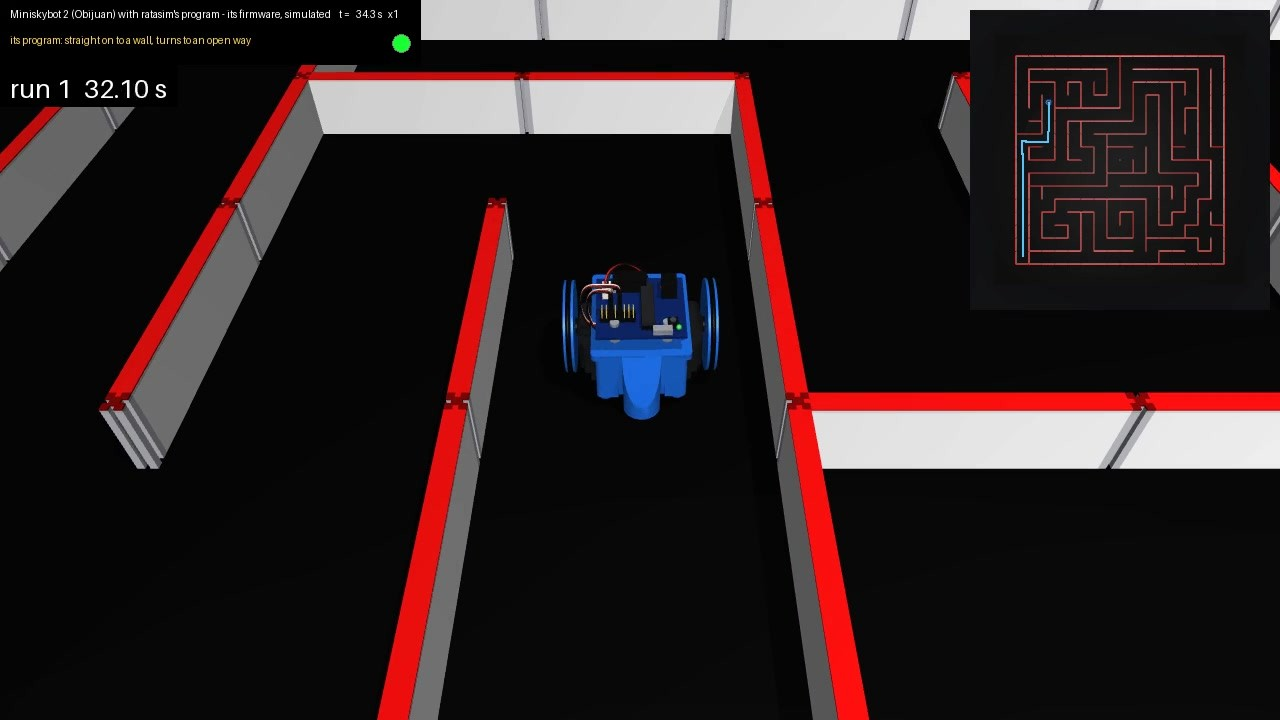
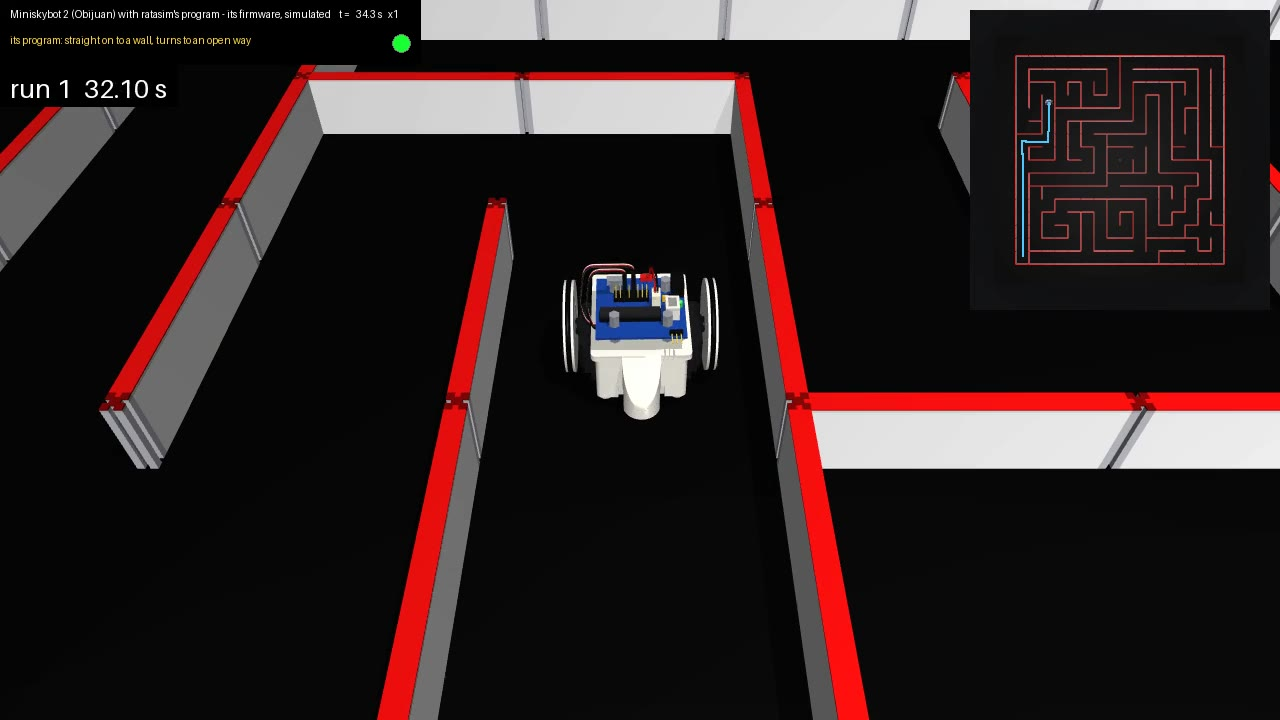
Miniskybot white, as in its photo: its printed parts (chassis, battery holder, wheels) in a printed plastic's warm, matt white (RGB 235, 232, 222), its Skymega in its real blue; its Skymega's parts where its photo has them (its ICSP's white boxed header with a right-angled header out of its back, it

Changed region(s): [[0.4375, 0.3667, 0.5625, 0.5806]]

diff --git a/ratasim/miniskybot/model.py b/ratasim/miniskybot/model.py
@@ -1,6 +1,6 @@
 """Miniskybot 2 assembled as its OpenSCAD model's show_robot() puts it together (parts/Openscad/main.scad), its meshes
 made by cad.py from the STL files its repository ships and from its OpenSCAD model's dimensions: its printed chassis,
-battery holder and wheels (blue PLA; white in its photo), its two Futaba S3003, its wheels' black O-rings and 4-arm
+battery holder and wheels (white, as in its photo), its two Futaba S3003, its wheels' black O-rings and 4-arm
 horns, its Skymega's hex spacers, its servos' cables and its battery's wires; drawn here, as its photo, its parts list
 and their data sheets show them: the Ø16 marble of its ball caster, its SRF02 ranger in the front's hole (its board
 behind the front's face, its transducer out of it) and its Skymega board over its top plate (its blue board, its
@@ -14,17 +14,20 @@ from ..model import MM, ROBOT_GROUP, WALL_GROUP, _f, maze_xml
 from . import cad
 from . import config as S
 
-# Its printed parts (chassis, battery holder, wheels) in blue PLA, RGB (25, 95, 200); the rest as in its photo
-PRINTED = (0.10, 0.37, 0.78, 1)
+# Its printed parts (chassis, battery holder, wheels) in white printed plastic, a little warm and matt, not pure
+# white: RGB (235, 232, 222); the rest as in its photo
+PRINTED = (0.92, 0.91, 0.87, 1)
 BLACK = (0.05, 0.05, 0.05, 1)
 SERVO = (0.09, 0.09, 0.10, 1)                   # the Futaba S3003's black case
 RUBBER = (0.03, 0.03, 0.03, 1)                  # its O-rings
-BLUE = (0.05, 0.13, 0.36, 1)                    # the Skymega's solder mask, darker than its printed parts
+BLUE = (0.09, 0.25, 0.60, 1)                    # the Skymega's blue solder mask
 STEEL = (0.55, 0.56, 0.59, 1)
 WIRE = {'black': (0.06, 0.06, 0.06, 1), 'red': (0.75, 0.08, 0.06, 1), 'white': (0.92, 0.92, 0.88, 1)}
 GREEN = (0.10, 0.42, 0.20, 1)
 GLASS = (0.78, 0.86, 0.92, 0.55)
-CREAM = (0.93, 0.91, 0.84, 1)
+CREAM = (0.93, 0.90, 0.80, 1)                   # its power connector
+WHITE = (0.90, 0.89, 0.86, 1)                   # its ICSP's boxed header
+GOLD = (0.85, 0.75, 0.30, 1)
 
 
 # ---- its parts drawn -----------------------------------------------------------------------------------------------
@@ -41,7 +44,7 @@ def _rod(p0, p1, r, rgba, cls='mvisual'):
 def _srf02():
     """Its SRF02 in the front's hole: its board (24 x 20 mm, as its data sheet gives it) right behind the front
     part's face, its transducer out of the hole to its front (17 mm over the board's back, as its data sheet gives
-    it), its two screws' heads on the face."""
+    it), its two screws' heads on the face, the metal clamp under one."""
     x, y, z = S.SRF02_POS
     face = S.scad_to_robot(S.BATTERY_C1 + S.FRONT_C1, 0, 0)[1]
     inner = face - S.FRONT_THICKNESS
@@ -49,25 +52,38 @@ def _srf02():
             + _rod((x, inner - 0.05, z), (x, y - 0.4, z), S.ULTRASOUND_HOLE / 2 - 0.2, BLACK)
             + _rod((x, y - 0.4, z), (x, y, z), S.ULTRASOUND_HOLE / 2 - 1.5, (0.20, 0.20, 0.21, 1))
             + ''.join(_rod((x - dx, face, z + dz), (x - dx, face + 1.2, z + dz), 2.6, STEEL)    # its two screws
-                      for dx, dz in ((-8, -9), (7, 9))))
+                      for dx, dz in ((-8, -9), (7, 9)))
+            + _box((x + 8, face + 0.3, z - 7.5), (3.5, 0.3, 4.5), STEEL))      # its metal clamp under one (its photo)
 
 
 def _skymega():
-    """Its Skymega on four hex spacers (meshes): its board, its ATmega328 in its socket, its expansion port and ICSP
-    headers, its eight servo headers with its servos' plugs in two of them, its power connector, test LED and button
-    (the board's photo and pin table)."""
+    """Its Skymega on four hex spacers (meshes, under it and over it): its board, its ATmega328 in its socket, its
+    servo headers with its servos' plugs in two of them, by its right edge (its photo, from the rear) its ICSP's
+    white boxed header with a right-angled header out of its back, its cream power connector, its green test LED, a
+    capacitor and its test button, its black boxed expansion port at its front right corner, its red power switch on
+    its front edge."""
     cx, cy, top = cad.board_top()
     z0 = top - S.PCB_MM
     h = S.SKYMEGA_MM / 2
     g = [_box((cx, cy, z0 + S.PCB_MM / 2), (h, h, S.PCB_MM / 2), BLUE)]
-    for dx in (-1, 1):
-        for dy in (-1, 1):
-            p = (cx + dx * S.SKYMEGA_DRILL, cy + dy * S.SKYMEGA_DRILL)
-            g.append(_rod((*p, top), (*p, top + 2.0), 2.7, STEEL))        # its spacers' screws' heads
-    g.append(_box((cx + 4, cy - 2, top + 1.5), (3.9, 18.0, 1.5), BLACK))   # DIP-28 socket and its ATmega328
-    g.append(_box((cx + 4, cy - 2, top + 4.0), (3.6, 17.5, 1.0), (0.13, 0.13, 0.14, 1)))
-    g.append(_box((cx - 6, cy + 17, top + 4.5), (10.0, 4.5, 4.5), BLACK))  # its expansion port (2 x 5, boxed)
-    g.append(_box((cx + 17, cy + 13, top + 4.5), (4.5, 6.5, 4.5), BLACK))  # ICSP (2 x 3, boxed)
+    g.append(_box((cx - 6, cy - 9, top + 1.5), (17.5, 3.9, 1.5), BLACK))    # DIP-28 socket and its ATmega328
+    g.append(_box((cx - 6, cy - 9, top + 4.0), (17.0, 3.6, 1.0), (0.13, 0.13, 0.14, 1)))
+    g.append(_box((cx + 18, cy - 6.5, top + 4.5), (4.0, 5.5, 4.5), WHITE))   # ICSP (2 x 3, boxed)
+    g.append(_box((cx + 18, cy - 6.5, top + 6.0), (2.4, 3.6, 3.1), (0.55, 0.55, 0.52, 1)))   # its well
+    for k in range(3):                                                     # its pins in it
+        for row in (-1, 1):
+            g.append(_box((cx + 18 + 1.27 * row, cy - 9.04 + 2.54 * k, top + 5.0), (0.32, 0.32, 3.0), GOLD))
+    g.append(_box((cx + 19.5, cy - 23.5, top + 1.25), (3.8, 1.25, 1.25), BLACK))   # a right-angled header out of the back
+    for k in range(3):
+        px = cx + 17 + 2.54 * k
+        g.append(_box((px, cy - 28.5, top + 1.25), (0.32, 4.0, 0.32), GOLD))
+    px, py = cx + cad.POWER[0], cy + cad.POWER[1]
+    g.append(_box((px, py, top + cad.POWER_H / 2), (2.5, 4.0, cad.POWER_H / 2), CREAM))   # its 2-pin power connector
+    g.append(_box((cx + 21.9, cy + 14, top + 4.5), (3.7, 6.5, 4.5), BLACK))  # expansion port (2 x 5, boxed)
+    for k in range(5):
+        for row in (-1, 1):
+            g.append(_box((cx + 21.9 + 1.27 * row, cy + 8.92 + 2.54 * k, top + 5.0), (0.32, 0.32, 3.0), GOLD))
+    g.append(_box((cx + 4, cy + 24, top + 1.6), (3.5, 1.6, 1.6), (0.85, 0.10, 0.08, 1)))   # its red power switch
     hx, hy, n = cad.SERVO_HEADER['x0'], cad.SERVO_HEADER['y'], cad.SERVO_HEADER['n']
     g.append(_box((cx + hx + 1.27 * (n - 1), cy + hy, top + 1.25), (1.27 * n, 3.81, 1.25), BLACK))
     plugged = set(cad.SERVO_PLUGGED.values())
@@ -77,14 +93,14 @@ def _skymega():
             g.append(_box((px, cy + hy, top + 2.5 + cad.PLUG_H / 2), (1.25, 3.8, cad.PLUG_H / 2), BLACK))
             continue
         for pin in range(3):
-            g.append(_box((px, cy + hy + 2.54 * (pin - 1), top + 4.5), (0.32, 0.32, 3.2), (0.85, 0.75, 0.30, 1)))
-    px, py = cx + cad.POWER[0], cy + cad.POWER[1]
-    g.append(_box((px, py, top + 3.5), (2.5, 4.0, 3.5), CREAM))           # its 2-pin power connector
-    g.append(_box((cx + 18, cy - 16, top + 1.75), (3.0, 3.0, 1.75), BLACK))   # test button
-    g.append(_rod((cx + 18, cy - 16, top + 3.5), (cx + 18, cy - 16, top + 4.5), 1.75, (0.25, 0.25, 0.27, 1)))
-    g.append(f'<geom class="mvisual" type="sphere" pos="{_f(*(v * MM for v in (cx + 21, cy - 21, top + 3)))}" '
+            g.append(_box((px, cy + hy + 2.54 * (pin - 1), top + 4.5), (0.32, 0.32, 3.2), GOLD))
+    g.append(_box((cx + 19.5, cy + 4, top + 1.75), (3.0, 3.0, 1.75), BLACK))   # test button
+    g.append(_rod((cx + 19.5, cy + 4, top + 3.5), (cx + 19.5, cy + 4, top + 6.0), 1.6, BLACK))
+    g.append(f'<geom class="mvisual" type="sphere" pos="{_f(*(v * MM for v in (cx + 23, cy, top + 3)))}" '
              f'size="{1.6 * MM:.5f}" rgba="0.2 0.8 0.3 0.9"/>')                 # its green test LED
-    g.append(_box((cx + 12, cy - 22, top + 1.8), (5.5, 2.3, 1.8), STEEL))   # its crystal (low profile)
+    g.append(_rod((cx + 23, cy, top), (cx + 23, cy, top + 3), 1.6, (0.2, 0.8, 0.3, 0.9)))
+    g.append(_box((cx + 14.5, cy + 4, top + 2.5), (1.8, 1.0, 1.8), (0.90, 0.68, 0.10, 1)))   # a yellow capacitor
+    g.append(_box((cx - 14, cy + 21.5, top + 1.8), (5.5, 2.3, 1.8), STEEL))   # its crystal (low profile)
     return ''.join(g)
 
 

diff --git a/ratasim/miniskybot/cad.py b/ratasim/miniskybot/cad.py
@@ -8,7 +8,7 @@ Its printed parts as show_robot() (parts/Openscad/main.scad) puts them together:
 ready to print: turned back) and battery holder, its two Futaba S3003; its wheels about their own axle. What its STL
 files leave out, from its OpenSCAD model's dimensions and its photo: its wheels' O-rings in the V of their rims
 (Servo-wheel.scad's raw_wheel()), its black 4-arm horns in their wheels' recesses (horn4()), their screws; its
-Skymega's metal hex spacers; its servos' cables (black, red, white, Futaba's) and its battery's wires (red and black)
+Skymega's metal hex spacers, under it and over it; its servos' cables (black, red, white, Futaba's) and its battery's wires (red and black)
 up to its board.
 
 Frames: the body's meshes in the robot's (mm: x right, y forward, z up, origin on the floor under the wheels' axle);
@@ -215,10 +215,9 @@ def horn():
 
 
 def horn_screws():
-    """Its middle screw's head, sunk in the hub, and the two on its arms (pan heads), in Servo-wheel.scad's frame."""
+    """The two screws on its arms (pan heads; its hub's middle open, as in its photo), in Servo-wheel.scad's frame."""
     top = HORN_PLATE_Z[1]
-    return np.concatenate([cylinder(2.4, top - 0.8, top + 0.2, 20)]
-                          + [cylinder(1.7, top, top + 1.0, 16, c) for c in ((0, HORN_SCREW_MM), (0, -HORN_SCREW_MM))])
+    return np.concatenate([cylinder(1.7, top, top + 1.0, 16, c) for c in ((0, HORN_SCREW_MM), (0, -HORN_SCREW_MM))])
 
 
 def o_ring():
@@ -228,22 +227,30 @@ def o_ring():
     return torus(big, S.WHEEL_OR_DIAM / 2)
 
 
+UPPER_SPACER_MM = 8.0
+
+
 def spacers():
-    """The Skymega's four M3 hex spacers (5.5 mm across flats) from the top plate to the board, robot frame."""
+    """The Skymega's four M3 hex spacers (5.5 mm across flats) from the top plate to the board and the four over it
+    (its photo), robot frame."""
     cx, cy, _ = S.scad_to_robot(S.SKYMEGA_X_SCAD, S.MID_Y_SCAD, 0)
     plate = S.scad_to_robot(0, 0, S.SERVO_C1 + S.TOP_PLATE_THICKNESS)[2]
     hexagon = _circle(5.5 / np.sqrt(3), 6) @ np.array([[np.cos(np.pi / 6), np.sin(np.pi / 6)],
                                                         [-np.sin(np.pi / 6), np.cos(np.pi / 6)]])
-    return np.concatenate([prism(hexagon + (cx + dx * S.SKYMEGA_DRILL, cy + dy * S.SKYMEGA_DRILL),
-                                 plate, plate + S.SKYMEGA_SPACER_MM) for dx in (-1, 1) for dy in (-1, 1)])
+    top = board_top()[2]
+    return np.concatenate([prism(hexagon + (cx + dx * S.SKYMEGA_DRILL, cy + dy * S.SKYMEGA_DRILL), z0, z1)
+                           for dx in (-1, 1) for dy in (-1, 1)
+                           for z0, z1 in ((plate, plate + S.SKYMEGA_SPACER_MM), (top, top + UPPER_SPACER_MM))])
 
 
-# Its board's servo headers (the Skymega's photo: a row of three-pin headers, 2.54 mm pitch, by its left edge), the
+# Its board's servo headers (the robot's photo: a row of three-pin headers, 2.54 mm pitch, ahead of its middle), the
 # two its servos are plugged into, its power connector: where model.py draws them, robot frame.
-SERVO_HEADER = {'x0': -22.0, 'y': -9.5, 'n': 8}     # from the board's middle: the first's x, the middle pins' y
+SERVO_HEADER = {'x0': -14.0, 'y': 8.0, 'n': 8}      # from the board's middle: the first's x, the middle pins' y
 SERVO_PLUGGED = {'r': 2, 'l': 4}                    # SERVO2, SERVO4 (pins 8 and 9)
+RISE_Y = -9.5                                       # where their cables come up, from the board's middle
 PLUG_H = 14.0                                       # a servo plug's housing over the header's base
-POWER = (-19.5, 11.0)                               # its 2-pin power connector
+POWER = (9.0, 1.0)                                  # its 2-pin power connector, near its right edge
+POWER_H = 10.0                                      # its housing's height over the board
 
 
 def board_top():
@@ -267,8 +274,9 @@ def wires():
     r = 0.55
     for side, x0, loop in (('r', 6.0, 0.0), ('l', -6.0, 3.5)):     # the second round the first
         px, py, pz = plug(side)
-        path = rounded([(x0, py, plate - 8), (x0, py, plate + 3 + loop), (cx - 27 - loop, py, plate + 3 + loop),
-                        (cx - 31 - loop, py, top + 8), (cx - 28 - loop, py, pz + 4 + loop), (px, py, pz + 4 + loop),
+        yr = cy + RISE_Y                                            # up through the top plate's cutout
+        path = rounded([(x0, yr, plate - 8), (x0, yr, plate + 3 + loop), (cx - 27 - loop, yr, plate + 3 + loop),
+                        (cx - 31 - loop, yr, top + 8), (cx - 28 - loop, py, pz + 4 + loop), (px, py, pz + 4 + loop),
                         (px, py, pz)], 6.0)
         for k, colour in enumerate(('black', 'red', 'white')):        # -, +, signal: across the plug
             out[colour].append(tube(path + (0, (k - 1) * 1.1, 0), r))
@@ -278,7 +286,7 @@ def wires():
     for k, colour in enumerate(('red', 'black')):
         dx = (k - 0.5) * 1.4
         path = bezier([(8 + dx, y, plate - 18), (8 + dx, y, plate + 10), (4 + dx, y + 2, top + 16),
-                       (bx + dx, by + 12, top + 18), (bx + dx, by, top + 14), (bx + dx, by, top + 7)], 50)
+                       (bx + dx, by + 12, top + POWER_H + 11), (bx + dx, by, top + POWER_H + 7), (bx + dx, by, top + POWER_H)], 50)
         out[colour].append(tube(path, 0.6))
     return {k: np.concatenate(v) for k, v in out.items()}
 

diff --git a/docs/robots.md b/docs/robots.md
@@ -411,13 +411,14 @@ at 16 MHz) and four AAA cells. No encoders, no gyro, one sensor.
 - **Model:** as its OpenSCAD model's `show_robot()` assembles it (`parts/Openscad/main.scad`), from the STL files its
   repository ships (`ratasim/miniskybot/cad.py`, at build time): its printed chassis (exported upside down for
   printing, turned back), its battery holder, its two S3003 and its wheels; merged per body and colour, their normals
-  smooth across rounded faces and sharp at edges (a crease angle). Its printed parts in blue PLA (RGB 25, 95, 200;
-  white in its photo), the rest as its photo shows it. Made from its OpenSCAD model's dimensions: the black O-rings
+  smooth across rounded faces and sharp at edges (a crease angle). Its printed parts white, as in its photo (a printed
+  plastic's warm, matt white, RGB 235, 232, 222), the rest as its photo shows it. Made from its OpenSCAD model's dimensions: the black O-rings
   in the V of its wheels' Ø56 rims (Ø50 x 3 mm: a 30.1 mm tyre), its black 4-arm horns in their wheels' recesses
-  (`horn4()`) with their screws. Drawn from its parts list, its photo and data sheets: the Ø16 marble of its caster,
+  (`horn4()`) with the two screws on their arms. Drawn from its parts list, its photo and data sheets: the Ø16 marble of its caster,
   its SRF02 (its board behind the front's face, its transducer out of the hole, 17 mm in all as its data sheet
-  gives it), the Skymega on four metal hex spacers (its parts plainly, not from its files: its servo headers with
-  its two servos' plugs), its servos' cables (black, red, white) and its battery's wires up to the board.
+  gives it, its screws and metal clamp), the Skymega on metal hex spacers under it and over it (its parts plainly,
+  not from its files, where its photo has them: its servo headers with its two servos' plugs, its ICSP's white boxed
+  header, its cream power connector, LED, button, its black expansion port, its red switch), its servos' cables (black, red, white) and its battery's wires up to the board.
   Collisions: a box round its chassis and holder, its ranger, its board, its marble, its tyres.
 - **Sensor:** its SRF02's echo: rays across its beam (55° wide), level from its transducer's face; a wall echoes
   where a ray meets it within 10° of square (ultrasound is mirrored, not scattered, by a flat wall); small faces
